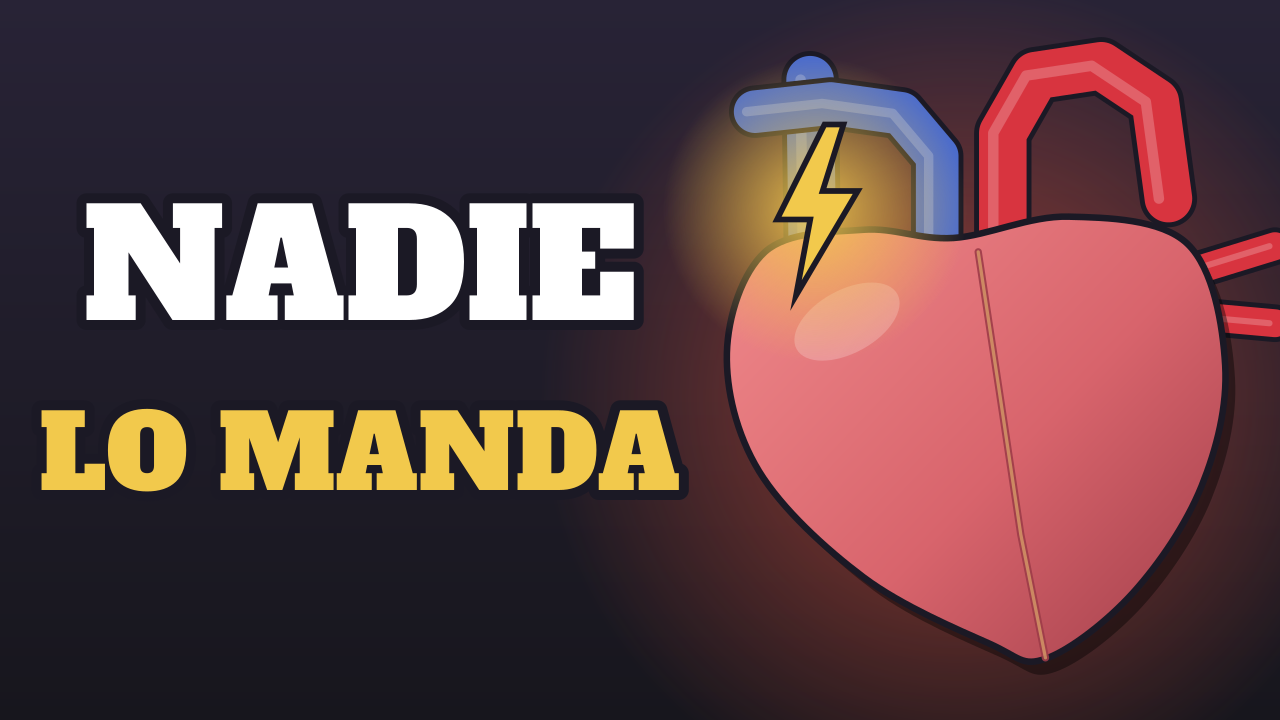
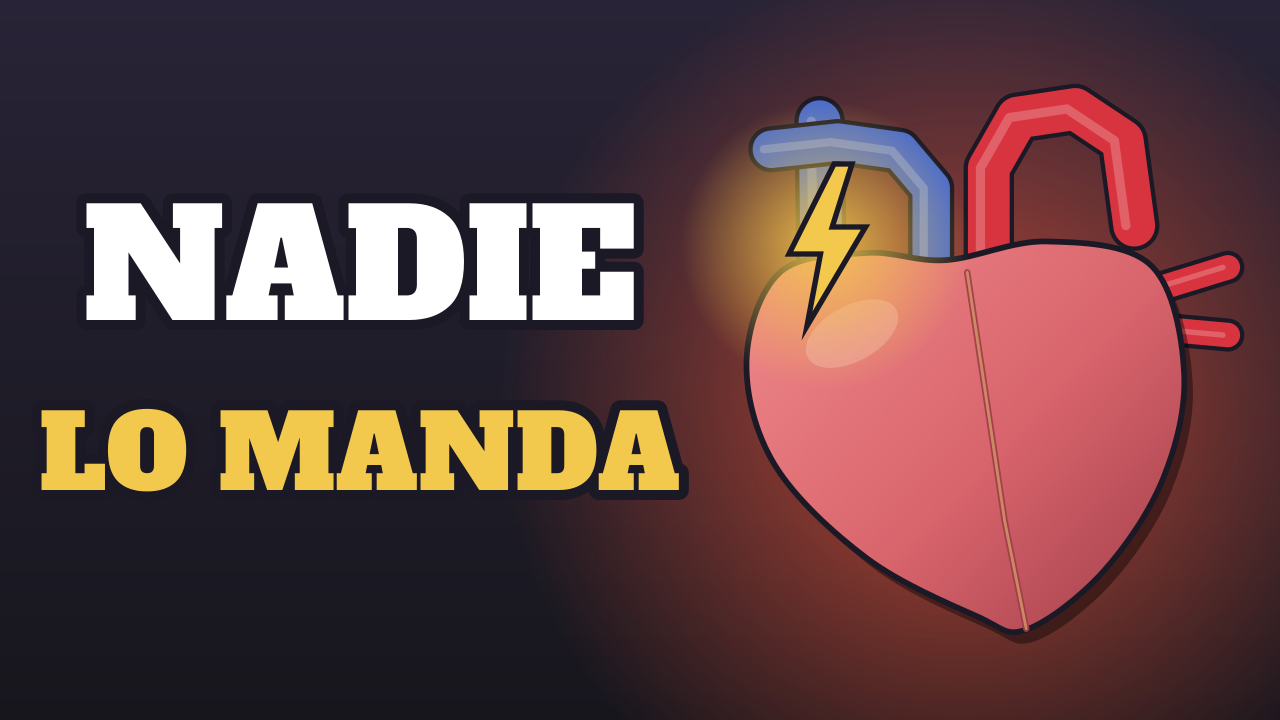
Engine: clamp whisper word starts to their beat; proportional review frames
Claude-Session: https://claude.ai/code/session_013W2BvHU1ZK9aKeLGxW6Nny

Changed region(s): [[0.5312, 0.0306, 1.0, 0.9472]]

diff --git a/output/engine/align.py b/output/engine/align.py
@@ -50,6 +50,11 @@ for i, w in enumerate(script):
         w["start"], w["end"] = prev, max(prev + 0.05, min(nxt, prev + 0.35))
         w["guessed"] = True
 
+# whisper tends to put the first word of a beat inside the preceding pause: the TTS clip starts exactly at the
+# beat start (measured), so no word may start before its beat.
+for w in script:
+    if w["start"] < w["bstart"]:
+        w["start"] = w["bstart"]; w["end"] = max(w["end"], w["start"] + 0.08)
 matched = sum(1 for w in script if not w.get("guessed"))
 ratio = sm.ratio()
 out = [{"word": w["word"], "start": round(w["start"], 3), "end": round(w["end"], 3), "beat": w["beat"],

diff --git a/output/engine/fixwords.py b/output/engine/fixwords.py
@@ -1,0 +1,9 @@
+"""One-off: apply align.py's clamp (no word before its beat) to an existing words.json."""
+import json, os, sys
+P = os.path.abspath(os.environ.get("PROJ", ".")); W = os.path.join(P, "words.json")
+beats = {b["id"]: b for b in json.load(open(os.path.join(P, "beats_timed.json")))}
+words = json.load(open(W)); n = 0
+for w in words:
+    b0 = beats[w["beat"]]["start"]
+    if w["start"] < b0: w["start"] = round(b0, 3); w["end"] = round(max(w["end"], b0 + 0.08), 3); n += 1
+json.dump(words, open(W, "w"), ensure_ascii=False, indent=0); print(os.path.basename(P), "clamped", n, "words")

diff --git a/output/engine/review.py b/output/engine/review.py
@@ -61,7 +61,7 @@ print(f"[5] subtítulos que coinciden con lo que se oye en ese momento: {ok}/{le
 for b in bad[:8]: print("     ✗", b)
 
 # 6. five frames
-ts = [1.0, 22.0, 42.0, 66.0, 86.0]
+D = float(p["format"]["duration"]); ts = [round(D * k, 1) for k in (0.02, 0.25, 0.5, 0.75, 0.95)]
 sel = "+".join(f"eq(n\\,{int(t*30)})" for t in ts)
 run("ffmpeg", "-v", "error", "-y", "-i", VID, "-vf", f"select='{sel}',scale=360:-1,tile=5x1", "-frames:v", "1", os.path.join(HERE, "review_frames.png"))
 for t in ts:
